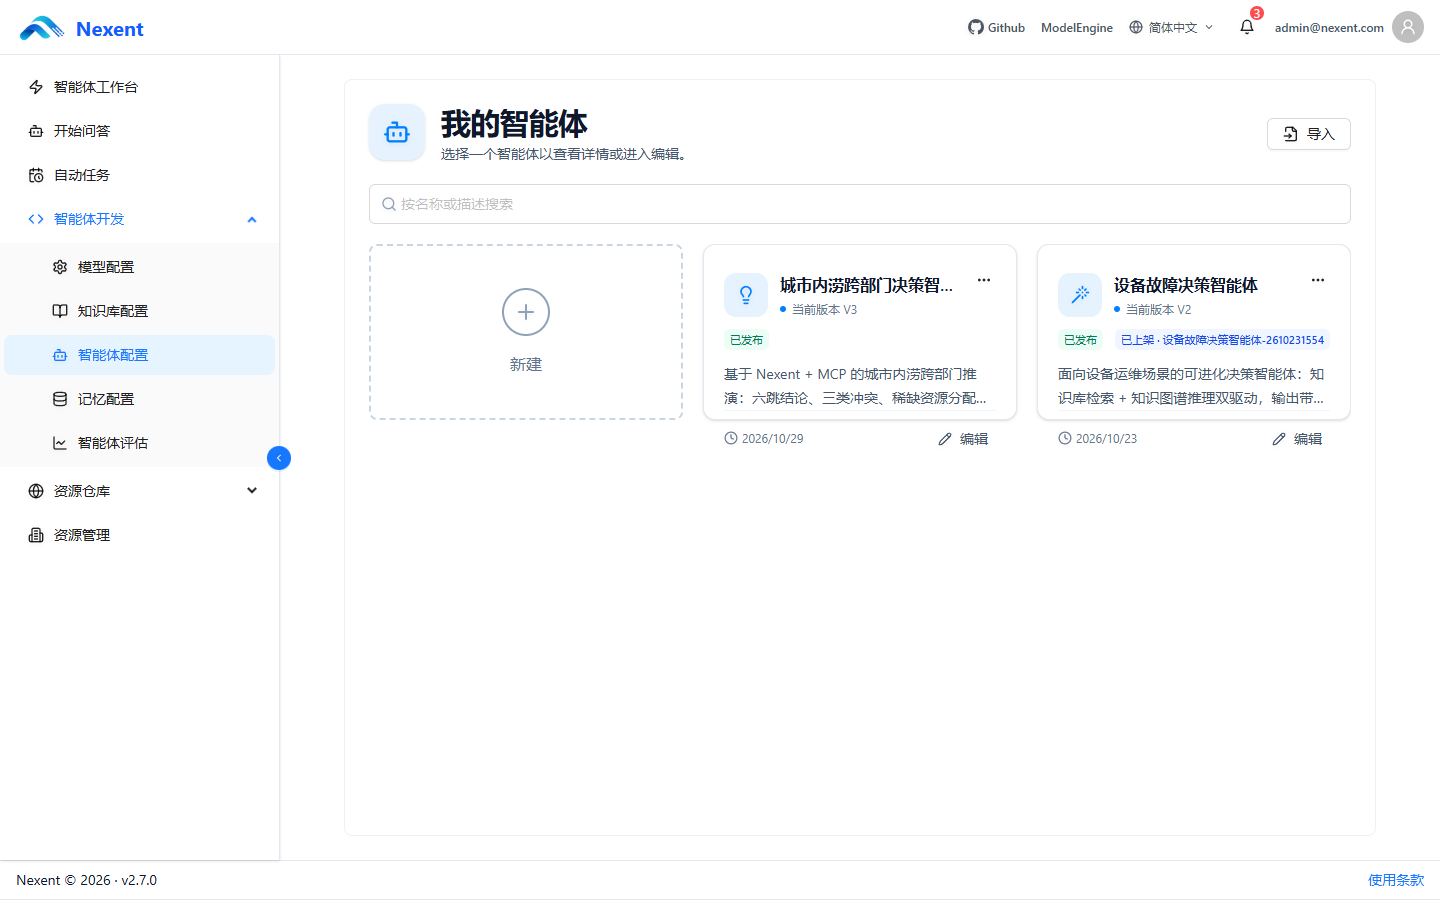
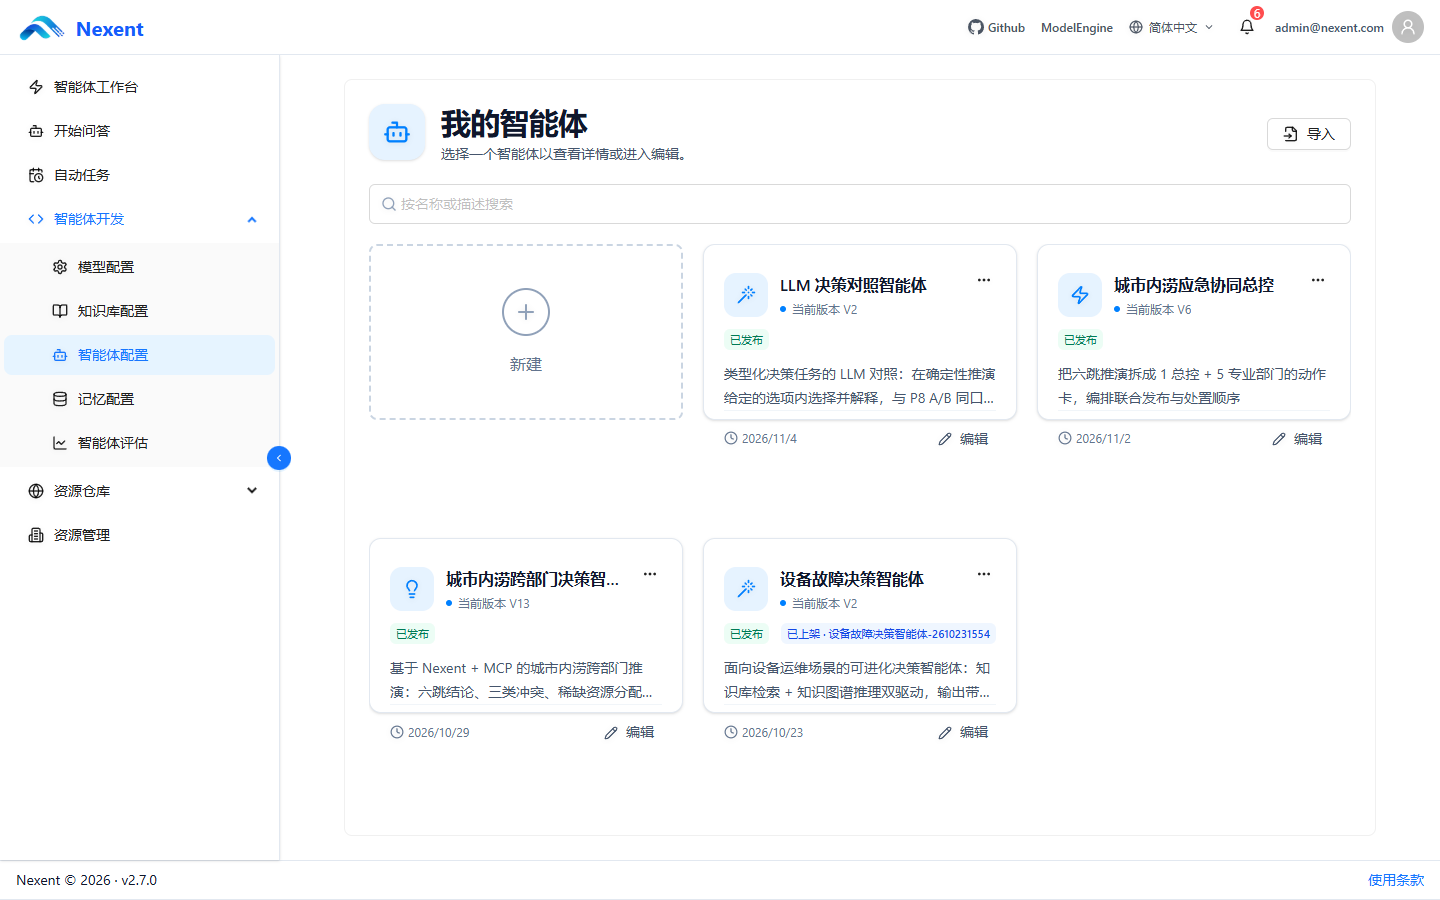
docs(captures): 平台界面截图真机更新（技能/智能体/MCP 连通性，14 工具口径并注明角标快照边界）

diff --git a/deploy/nexent/capture_platform_ui.py b/deploy/nexent/capture_platform_ui.py
@@ -69,8 +69,11 @@ PAGES: List[Dict[str, Any]] = [
         # 卡片右上角的"连通性校验"按钮：先让平台真的去连一次，截图里才是"连接成功"而不是陈旧状态。
         # 只点第一个（列表顺序里 urban-twin-mcp 在第一位；另一个是无关的 kg-mcp-server）。
         "click_selector": 'button[aria-label="连通性校验"]',
-        "expect": ["urban-twin-mcp", "14 个工具", "连接成功"],
-        "purpose": "平台 MCP「我的MCP」：urban-twin-mcp 连通性校验通过，14 个工具可用",
+        # 卡片角标的「N 个工具」是平台在 add 时对 registry_json 的快照（本环境 2026-10-29 为 12 个），
+        # 之后 MCP 侧新增工具不会自动回写角标；因此截图只断言页面上真实存在的
+        # "urban-twin-mcp + 连接成功"，14 个工具以 `/health` 与平台工具库命中 14/14 为准（见证据报告）。
+        "expect": ["urban-twin-mcp", "连接成功"],
+        "purpose": "平台 MCP「我的MCP」：urban-twin-mcp 连通性校验通过（卡片角标为注册时快照，实时工具数以 /health=14 为准）",
     },
 ]
 
